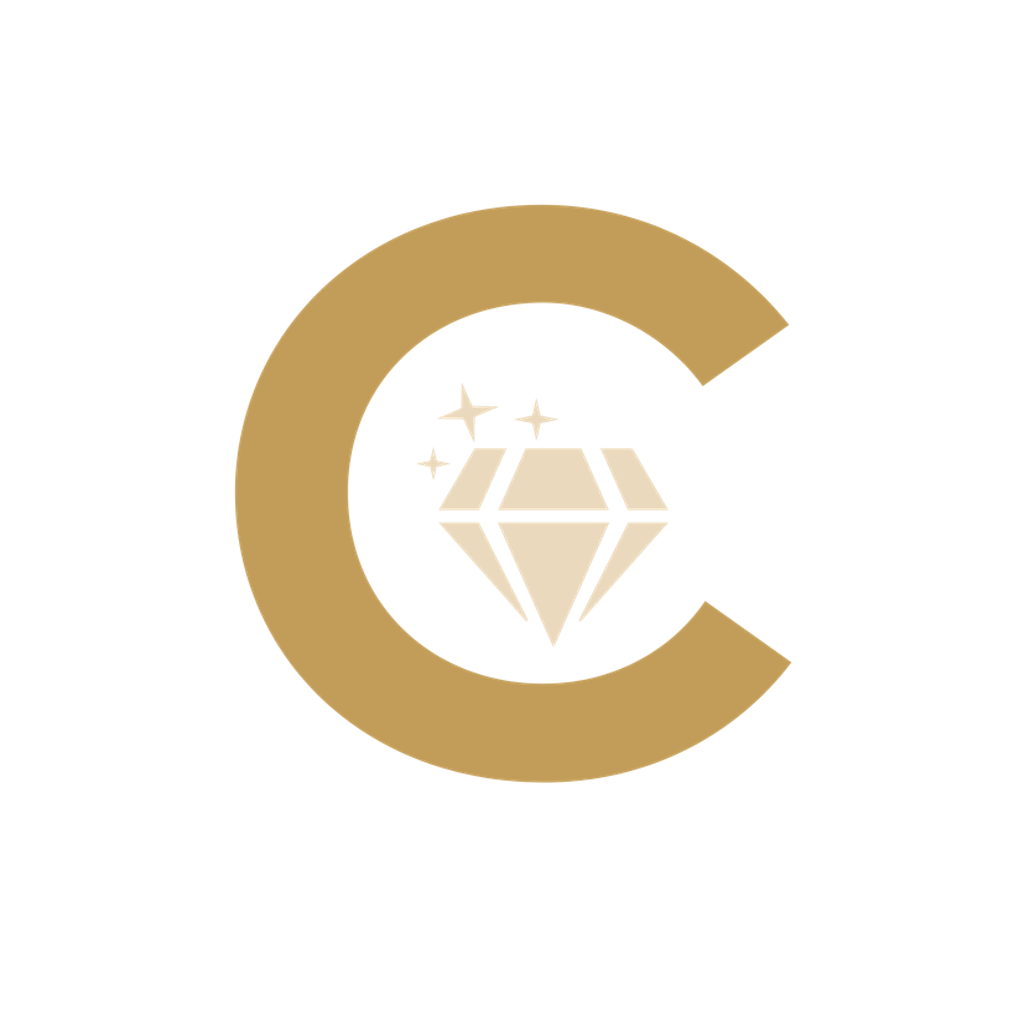
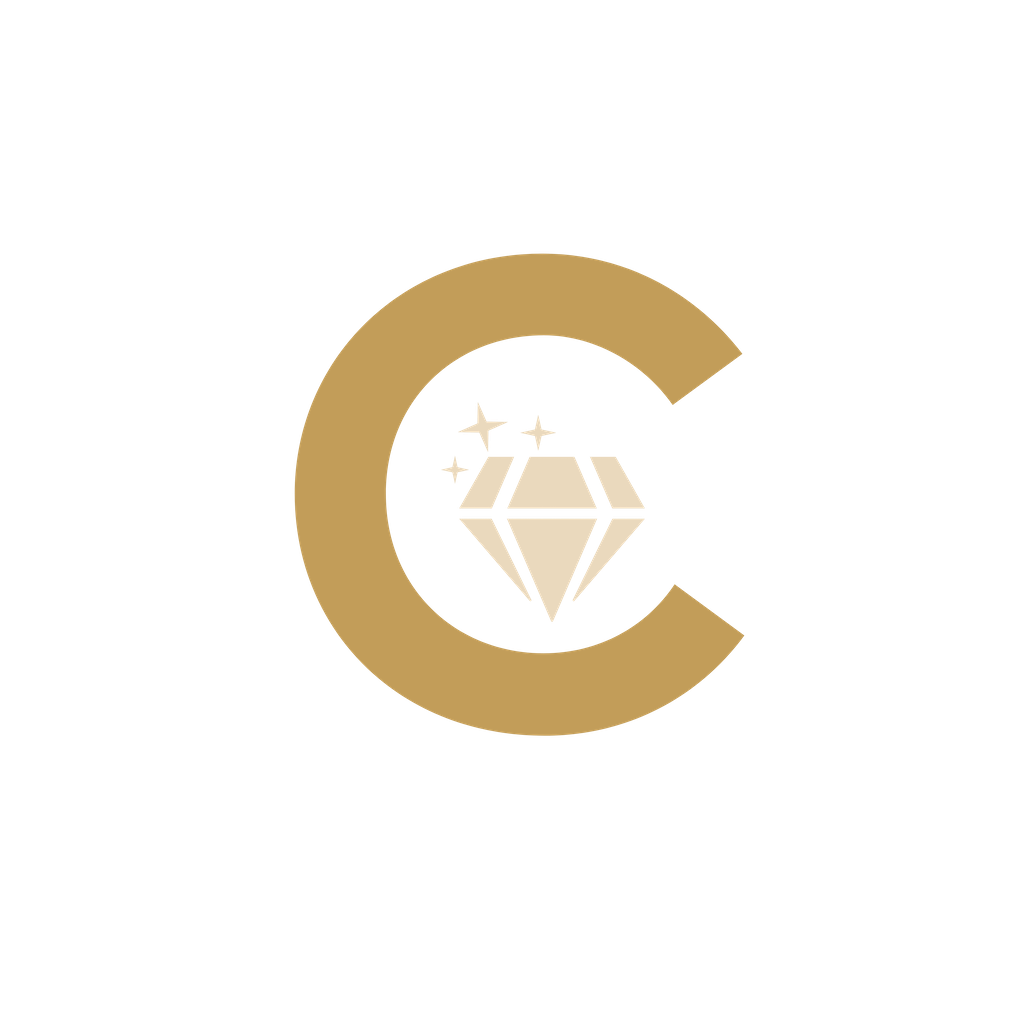
Branded native splash + account deletion request flow
- Native splash now shows the gold logo centered on #04070F so the
  first frame is branded before JS starts, handing off to LaunchOverlay
- Add platforms + backgroundColor to app.json
- Switch account security to useRequestAccountDeletion (admin review)

Changed region(s): [[0.2188, 0.1875, 0.7812, 0.7812]]

diff --git a/app.config.js b/app.config.js
@@ -20,19 +20,18 @@ module.exports = ({ config }) => ({
   plugins: [
     ...(config.plugins ?? []),
     [
-      // Native splash is intentionally minimal — just the dark background
-      // color. The image points at a transparent PNG because the
-      // expo-splash-screen Android plugin always emits a reference to
-      // @drawable/splashscreen_logo and resource linking fails without it.
-      // The full-screen branded splash is rendered by <LaunchOverlay /> in
-      // src/app/_layout.tsx using assets/images/full-splash-image.png.
+      // Native splash shows the gold brand logo centered on the dark #04070F
+      // background, so the first frame is already branded (no blank/dark gap
+      // before JS starts). The full-screen branded splash (<LaunchOverlay /> in
+      // src/app/_layout.tsx, assets/images/full-splash-image.png) then fades in
+      // on top of the same background for a seamless handoff.
       'expo-splash-screen',
       {
-        image: './assets/images/transparent-splash.png',
+        image: './assets/images/logo-sm.png',
         resizeMode: 'contain',
         backgroundColor: '#04070F',
         dark: {
-          image: './assets/images/transparent-splash.png',
+          image: './assets/images/logo-sm.png',
           backgroundColor: '#04070F',
         },
       },

diff --git a/src/api-client/react-query/hooks.ts b/src/api-client/react-query/hooks.ts
@@ -75,6 +75,21 @@ export const useDeleteCurrentUser = (
   });
 };
 
+export const useRequestAccountDeletion = (
+  options?: UseMutationOptions<
+    Record<string, unknown>,
+    unknown,
+    { source: 'rider' | 'driver'; reason?: string }
+  >
+) => {
+  const api = useApiClient();
+  return useMutation({
+    mutationFn: (input: { source: 'rider' | 'driver'; reason?: string }) =>
+      api.usersApi.requestAccountDeletion(input),
+    ...options
+  });
+};
+
 export const useSavedAddresses = (
   options?: Omit<UseQueryOptions<Array<UnknownRecord>>, 'queryKey' | 'queryFn'>
 ) => {

diff --git a/src/api-client/apis/users-api.ts b/src/api-client/apis/users-api.ts
@@ -38,6 +38,10 @@ export interface UsersApi {
   updateCurrentUser(input: UpdateUserProfileInput): Promise<Record<string, unknown>>;
   uploadAvatar(formData: FormData): Promise<Record<string, unknown>>;
   deleteCurrentUser(): Promise<{ message: string }>;
+  requestAccountDeletion(input: {
+    source: 'rider' | 'driver';
+    reason?: string;
+  }): Promise<Record<string, unknown>>;
 
   listAddresses(): Promise<Array<Record<string, unknown>>>;
   createAddress(input: SavedAddressInput): Promise<Record<string, unknown>>;
@@ -83,6 +87,10 @@ export const createUsersApi = (http: HttpClient): UsersApi => {
 
     deleteCurrentUser() {
       return http.delete('/users/me');
+    },
+
+    requestAccountDeletion(input) {
+      return http.post('/account-deletion/me', input);
     },
 
     listAddresses() {

diff --git a/src/app/account/security.tsx b/src/app/account/security.tsx
@@ -8,7 +8,7 @@ import { formatDistanceToNow } from 'date-fns';
 import {
   useApiClient,
   useChangePassword,
-  useDeleteCurrentUser,
+  useRequestAccountDeletion,
   useRevokeSession,
   useUserSessions
 } from '@/api-client';
@@ -33,7 +33,7 @@ export default function AccountSecurityScreen() {
   const { data: sessionsData } = useUserSessions();
   const changePassword = useChangePassword();
   const revokeSession = useRevokeSession();
-  const deleteAccount = useDeleteCurrentUser();
+  const deleteAccount = useRequestAccountDeletion();
 
   const [isDeleteModalVisible, setIsDeleteModalVisible] = useState(false);
   const [currentPassword, setCurrentPassword] = useState('');
@@ -79,7 +79,8 @@ export default function AccountSecurityScreen() {
 
     setSubmitting(true);
     try {
-      await deleteAccount.mutateAsync();
+      // Submit a deletion request for admin review, then sign the user out.
+      await deleteAccount.mutateAsync({ source: 'rider' });
       try {
         await api.authApi.logout();
       } catch {